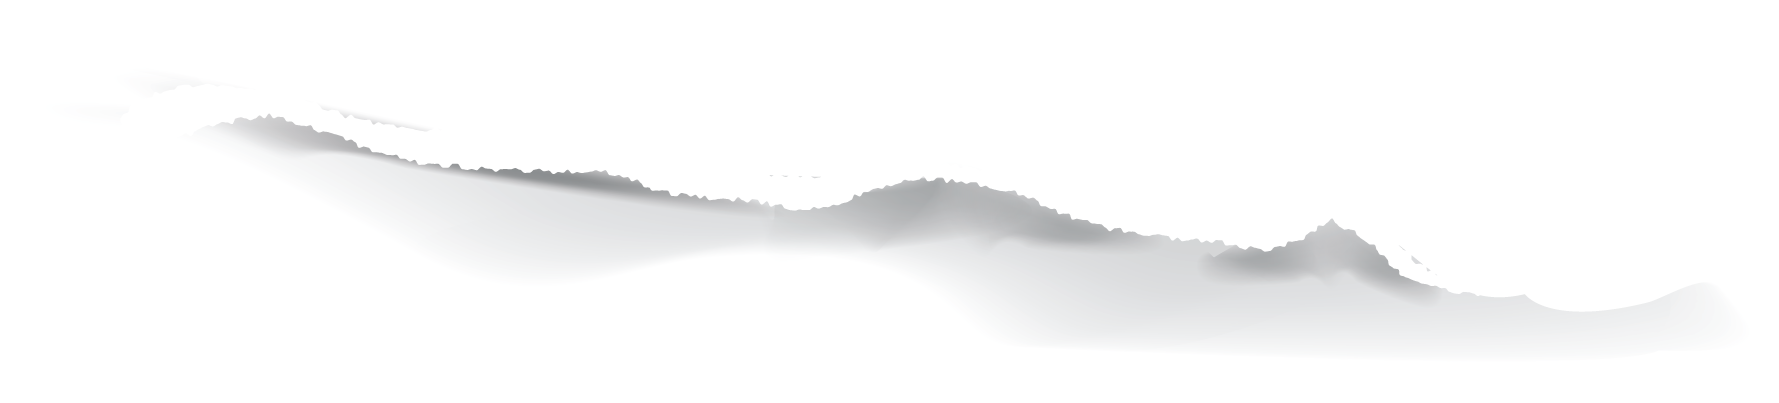
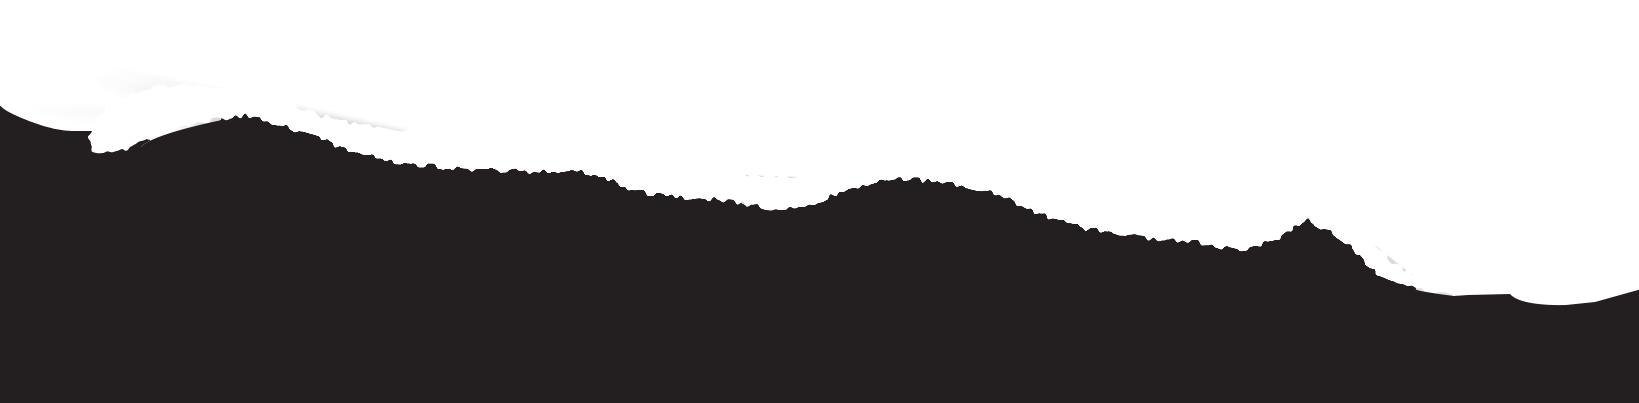
section 4 n footer

diff --git a/index.html b/index.html
@@ -110,7 +110,7 @@
               </div>
             </div>
           </div>
-          <div class="col l5 m5 s12 offset-l1 offset-m1">
+          <div class="col l5 m5 s12">
             <div class="poin-mantap">
               <img src="assets/images/1/1_nomer2.png" class="img-100">
               <div class="poin-mantap-caption">
@@ -128,7 +128,7 @@
               </div>
             </div>
           </div>
-          <div class="col l5 m5 s12 offset-l1 offset-m1">
+          <div class="col l5 m5 s12">
             <div class="poin-mantap">
               <img src="assets/images/1/1_nomer4.png" class="img-100">
               <div class="poin-mantap-caption">
@@ -146,7 +146,7 @@
               </div>
             </div>
           </div>
-          <div class="col l5 m5 s12 offset-l1 offset-m1">
+          <div class="col l5 m5 s12">
             <div class="poin-mantap">
               <img src="assets/images/1/1_nomer6.png" class="img-100">
               <div class="poin-mantap-caption">
@@ -164,7 +164,7 @@
               </div>
             </div>
           </div>
-          <div class="col l5 m5 s12 offset-l1 offset-m1">
+          <div class="col l5 m5 s12">
             <div class="poin-mantap">
               <img src="assets/images/1/1_nomer8.png" class="img-100">
               <div class="poin-mantap-caption">
@@ -186,7 +186,9 @@
     </section>
     <section id="sec-2" class=" pos-relative">
       <div class="box pos-absolute">
-        <img src="assets/images/2/2_judul.png" class="responsive-img img-100">
+        <div class="center-align">
+            <img src="assets/images/2/2_judul.png" class="responsive-img ">
+        </div>
         <div class="row">
           <div class="col l3 m3 s12">
             <a href="#"><img src="assets/images/2/2_tombol1.png" class="responsive-img"></a>
@@ -206,8 +208,8 @@
     <section id="sec-3">
       <div class="container">
         <div class="row">
-          <div class="col l12 m12 s12">
-            <img src="assets/images/3/3_judul.png" class="responsive-img img-100">
+          <div class="col l12 m12 s12 center-align">
+            <img src="assets/images/3/3_judul.png" class="responsive-img">
           </div>
         </div>
         <div class="row">
@@ -222,12 +224,103 @@
           </div>
         </div>
       </div>
+      <img src="assets/images/4/4_robekanversi1.png" class="responsive-img img-100">
     </section>
     <section id="sec-4">
-
+      <div class="container">
+        <div class="row">
+          <div class="col l12 m12 s12 center-align">
+            <img src="assets/images/4/4_judul.png" class="responsive-img">
+          </div>
+        </div>
+        <div class="row">
+          <div class="col l10 m10 s12 offset-l1 offset-m1 center-align">
+            <div class="caption white-text">
+              Jatuh di karier itu biasa, Bisa bangkit lagi bikin band lo luar biasa! 
+            </div>
+            <div class="text white-text">
+                Kalo lo anggap band-band indie yang sekarang gede itu kariernya mulus-mulus aja, lo salah banget. Punya karier sebagai band atau artis independen artinya harus bisa menggantungkan hidup pada kreativitas dengan minimnya sokongan dana dari produser atau music label. Yap, indie dan masalah kayaknya emang lekat banget. Tapi, masalah itu bisa diselesaikan kok. Kalo nggak percaya, coba cek kisah jatuh bangun 4 band indie di bawah ini! Baca untuk pelajaran band lo kelak. 
+            </div>
+          </div>
+        </div>
+        <div class="row">
+          <div class="col offset-l1 offset-m1 l5 m5 s12">
+              <div class="poin-mantap center-align white-text">
+                <a href="#"><img src="assets/images/4/4_burgerkill4.png" class="img-100"></a>
+                <div class="poin-mantap-caption">
+                  Burgerkill
+                </div>
+              </div>
+          </div>
+          <div class="col l5 m5 s12">
+              <div class="poin-mantap center-align white-text">
+                <a href="#"><img src="assets/images/4/4_puresaturday4.png" class="img-100"></a>
+                <div class="poin-mantap-caption">
+                  Pure Saturday
+                </div>
+              </div>
+          </div>
+        </div>
+        <div class="row">
+          <div class="col offset-l1 offset-m1 l5 m5 s12">
+              <div class="poin-mantap center-align white-text">
+                <a href="#"><img src="assets/images/4/4_pasband4.png" class="img-100"></a>
+                <div class="poin-mantap-caption">
+                  Pas Band
+                </div>
+              </div>
+          </div>
+          <div class="col l5 m5 s12">
+              <div class="poin-mantap center-align white-text">
+                <a href="#"><img src="assets/images/4/4_rocketrockers4.png" class="img-100"></a>
+                <div class="poin-mantap-caption">
+                  Rocket Rockers
+                </div>
+              </div>
+          </div>
+        </div>
+      </div>
+      <img src="assets/images/4/4_robekanversi2.png" class="img-100">
     </section>
     <section id="footer">
-        
+        <div class="container footer-body">
+            <div class="row">
+                <div class="col offset-l3 offset-m3 l6 m6 s12 animated wow tada center-align">
+                    <a href="http://hai.grid.id/go-deeper-plus">
+                      <img src="assets/images/logo_hai.png" class="responsive-img logo-footer "><br>
+                      <span class="bth">Back To Home</span>
+                    </a>
+                </div>
+                <div class="col offset-l3 offset-m3 l3 m3 s12 animated wow zoomIn text-foot">
+                    <p>
+                        <b class=" lbl-foot">Reporter : </b><br>
+                        Alvin Bahar <br>
+                        Fadli Adzani <br>
+                        Ricky Nugraha <br>
+                        Bayu Galih Permana
+                    </p>
+
+                    <p>
+                        <b class="lbl-foot">Editor : </b><br>
+                        Rizki Ramadan
+                    </p>
+                </div>
+                <div class="col l5 m5 s12 animated wow zoomIn text-foot">
+                    <p>
+                        <b class="lbl-foot">Graphic Designer : </b><br>
+                        M Farhan Haidar
+                    </p>
+                    <p>
+                        <b class="lbl-foot">Web Designer : </b><br>
+                        Fahmi Fu`adi
+                    </p>
+                    <p>
+                        <b class="lbl-foot">Photo By : </b><br>
+                        Dok.HAI
+                    </p>
+                </div>
+            </div>
+        </div>
     </section>
     <script src="assets/js/jquery.min.js"></script>
     

diff --git a/assets/css/style.css b/assets/css/style.css
@@ -135,9 +135,35 @@ body{
 }
 
 .carousel{
-    height:800px!important;
+    height:700px!important;
 }
 .carousel-item{
-    width:700px!important;
+    width:600px!important;
     height:100%!important;
+}
+#sec-4{
+    background: #231f20;
+}
+#footer{
+    background: #f8f8f8;
+    padding-bottom:2%;
+}
+.bth{
+    font-family: doctorpunk;
+    color:#231f20;
+    font-size:7vh;
+}
+.logo-footer{
+    width:75px;
+}
+.lbl-foot{
+    font-family: shonenpunkbold;
+    font-size: 3vh;
+}
+.text-foot{
+    font-family: wit;
+    font-size: 3vh
+}
+.footer-body{
+    margin-top:-5%;
 }
